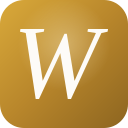
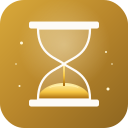
Add files via upload

diff --git a/index.html b/index.html
@@ -168,6 +168,47 @@
     #screen-home.active { gap: 12px; }
     #screen-home .footer { margin-top: 0; }
 
+    /* ---------- Daily goal (slim bar) ---------- */
+    .goal-slim {
+      background: var(--card);
+      border: 1px solid var(--border);
+      border-radius: 12px;
+      padding: 8px 12px 10px;
+      display: flex; flex-direction: column;
+      gap: 5px;
+    }
+    .goal-slim-row {
+      display: flex; justify-content: space-between; align-items: baseline;
+    }
+    .goal-slim-label {
+      font-size: 11px; color: var(--muted);
+      text-transform: uppercase; letter-spacing: .05em;
+      font-weight: 600;
+    }
+    .goal-slim-progress {
+      font-size: 13px; font-weight: 700; color: var(--ink);
+      font-variant-numeric: tabular-nums;
+      letter-spacing: -.01em;
+    }
+    .goal-slim-bar {
+      height: 4px;
+      background: var(--border);
+      border-radius: 999px;
+      overflow: hidden;
+    }
+    .goal-slim-fill {
+      height: 100%;
+      width: 0;
+      background: var(--gold-gradient);
+      border-radius: 999px;
+      transition: width .5s cubic-bezier(.4,.2,.2,1);
+    }
+    .goal-slim.complete .goal-slim-progress {
+      background: var(--gold-gradient);
+      -webkit-background-clip: text; background-clip: text;
+      color: transparent;
+    }
+
     /* ---------- HOME ---------- */
     .topbar {
       display: flex;
@@ -945,35 +986,6 @@
       100% { transform: translateX(-50%) translateY(0) scale(1); }
     }
 
-    /* ---------- Daily goal ring (home) ---------- */
-    .goal-card {
-      background: var(--card);
-      border: 1px solid var(--border);
-      border-radius: 14px;
-      padding: 12px 14px;
-      display: flex; align-items: center; gap: 14px;
-    }
-    .goal-ring { flex-shrink: 0; }
-    .goal-ring-fill { transition: stroke-dashoffset .5s cubic-bezier(.4,.2,.2,1); }
-    .goal-text { flex: 1; min-width: 0; }
-    .goal-title {
-      font-size: 11px; color: var(--muted);
-      text-transform: uppercase; letter-spacing: .05em;
-      font-weight: 600;
-    }
-    .goal-progress {
-      font-size: 18px; font-weight: 700; color: var(--ink);
-      font-variant-numeric: tabular-nums;
-      letter-spacing: -.01em;
-      margin-top: 2px;
-    }
-    .goal-hint { font-size: 12px; color: var(--muted); margin-top: 2px; }
-    .goal-card.complete .goal-hint {
-      background: var(--gold-gradient);
-      -webkit-background-clip: text; background-clip: text;
-      color: transparent;
-      font-weight: 700;
-    }
   </style>
 </head>
 <body>
@@ -983,7 +995,15 @@
     <section id="screen-home" class="screen active">
       <div class="topbar">
         <div class="brand">
-          <div class="brand-mark">W</div>
+          <div class="brand-mark" aria-label="Wortgold-Logo">
+            <svg width="28" height="28" viewBox="0 0 24 24" fill="none" aria-hidden="true">
+              <rect x="5" y="1.6" width="14" height="1.4" rx="0.4" fill="#fdfbf7"/>
+              <rect x="5" y="21" width="14" height="1.4" rx="0.4" fill="#fdfbf7"/>
+              <path d="M 6 3 L 18 3 C 18 6, 17 9.5, 12 12 C 17 14.5, 18 18, 18 21 L 6 21 C 6 18, 7 14.5, 12 12 C 7 9.5, 6 6, 6 3 Z" stroke="#fdfbf7" stroke-width="0.6" stroke-linejoin="round" fill="rgba(255,255,255,0.08)"/>
+              <path d="M 6.5 21 L 17.5 21 C 17.5 18.4, 15 17.2, 12 17.2 C 9 17.2, 6.5 18.4, 6.5 21 Z" fill="#f5c542"/>
+              <rect x="11.7" y="12.2" width="0.6" height="4.6" fill="#f5c542"/>
+            </svg>
+          </div>
           <div>
             <div class="brand-name">Wortgold</div>
             <div class="brand-sub" id="brand-sub-text">Englisch → Deutsch</div>
@@ -1034,27 +1054,12 @@
         </div>
       </div>
 
-      <div class="goal-card" id="goal-card">
-        <svg class="goal-ring" viewBox="0 0 80 80" width="56" height="56">
-          <defs>
-            <linearGradient id="goalGrad" x1="0" y1="0" x2="1" y2="1">
-              <stop offset="0%"   stop-color="#b8862b"/>
-              <stop offset="50%"  stop-color="#d9a93a"/>
-              <stop offset="100%" stop-color="#b8862b"/>
-            </linearGradient>
-          </defs>
-          <circle cx="40" cy="40" r="34" fill="none" stroke="var(--border)" stroke-width="8"/>
-          <circle id="goal-ring-fill" class="goal-ring-fill"
-                  cx="40" cy="40" r="34" fill="none"
-                  stroke="url(#goalGrad)" stroke-width="8" stroke-linecap="round"
-                  stroke-dasharray="213.6" stroke-dashoffset="213.6"
-                  transform="rotate(-90 40 40)"/>
-        </svg>
-        <div class="goal-text">
-          <div class="goal-title">Tagesziel</div>
-          <div class="goal-progress" id="goal-progress">0 / 20 heute</div>
-          <div class="goal-hint" id="goal-hint">Noch 20 Karten bis zur Tagesfanfare</div>
+      <div class="goal-slim" id="goal-card">
+        <div class="goal-slim-row">
+          <span class="goal-slim-label">Tagesziel</span>
+          <span class="goal-slim-progress" id="goal-progress">0 / 20</span>
         </div>
+        <div class="goal-slim-bar"><div class="goal-slim-fill" id="goal-fill"></div></div>
       </div>
 
       <div class="heat-card" id="heat-card">
@@ -1196,8 +1201,8 @@
 
     <div class="sheet-row">
       <div>
-        <label>Tägliches Pensum</label>
-        <div class="desc">Wie viele Karten pro Session</div>
+        <label>Karten pro Session</label>
+        <div class="desc">Wie viele Karten pro Lerneinheit</div>
       </div>
       <div class="chip-row" id="chip-limit">
         <button class="chip" data-limit="10">10</button>
@@ -2595,9 +2600,9 @@ yourself;dich selbst;pron.;A1;
     const boxes = countByBox();
     const li = levelInfo(state.stats.xp || 0);
 
-    // Show direction in the brand sub
+    // Show direction + active level in the brand sub
     const brandSub = document.getElementById("brand-sub-text");
-    if (brandSub) brandSub.textContent = directionLabel(state.settings.direction || "la-de");
+    if (brandSub) brandSub.textContent = brandSubText();
 
     document.getElementById("level-name").textContent = li.name;
     if (li.nextName) {
@@ -2642,28 +2647,20 @@ yourself;dich selbst;pron.;A1;
 
     // Heatmap der letzten 30 Tage
     renderHeatmap();
-    renderGoalRing();
+    renderGoal();
   }
 
-  // ---- Daily goal ring ----
-  function renderGoalRing() {
+  // ---- Daily goal (slim bar) ----
+  function renderGoal() {
     const goal = state.settings.dailyLimit || 20;
     const today = (state.stats && state.stats.history && state.stats.history[todayKey()]) || 0;
     const progress = Math.min(today / goal, 1);
-    const C = 213.6; // 2*pi*r where r=34
-    const fill = document.getElementById("goal-ring-fill");
+    const fill = document.getElementById("goal-fill");
     const txt  = document.getElementById("goal-progress");
-    const hint = document.getElementById("goal-hint");
     const card = document.getElementById("goal-card");
-    if (fill) fill.setAttribute("stroke-dashoffset", C * (1 - progress));
-    if (txt)  txt.textContent = today + " / " + goal + " heute";
-    if (today >= goal) {
-      if (hint) hint.textContent = "Tagesziel geknackt — Goldgriff! 🎉";
-      if (card) card.classList.add("complete");
-    } else {
-      if (hint) hint.textContent = (goal - today) + " Karten bis zur Tagesfanfare";
-      if (card) card.classList.remove("complete");
-    }
+    if (fill) fill.style.width = (progress * 100) + "%";
+    if (txt)  txt.textContent = today + " / " + goal;
+    if (card) card.classList.toggle("complete", today >= goal);
   }
 
   // ---- Session state ----
@@ -3073,7 +3070,7 @@ yourself;dich selbst;pron.;A1;
       saveState(); refreshSettingsChips();
       // Live-update brand-sub on home screen
       const brandSub = document.getElementById("brand-sub-text");
-      if (brandSub) brandSub.textContent = directionLabel(state.settings.direction);
+      if (brandSub) brandSub.textContent = brandSubText();
     });
   });
   // Niveau-Filter (Multi-Select): Klick toggelt das Niveau in/aus den aktiven
@@ -3097,6 +3094,20 @@ yourself;dich selbst;pron.;A1;
     if (d === "de-la") return "Deutsch → Englisch";
     if (d === "mixed") return "English ↔ Deutsch";
     return "Englisch → Deutsch";
+  }
+  function levelLabel(levels) {
+    const order = ["A1","A2","B1","B2","C1"];
+    const sorted = order.filter(l => (levels || []).includes(l));
+    if (sorted.length === 0) return "";
+    if (sorted.length === 1) return sorted[0];
+    const idxs = sorted.map(l => order.indexOf(l));
+    const consecutive = idxs.every((v, i) => i === 0 || v === idxs[i-1] + 1);
+    return consecutive ? sorted[0] + "–" + sorted[sorted.length - 1] : sorted.join(", ");
+  }
+  function brandSubText() {
+    const dir = directionLabel(state.settings.direction || "la-de");
+    const lv  = levelLabel(state.settings.levels);
+    return lv ? dir + " · " + lv : dir;
   }
   document.getElementById("toggle-sound").addEventListener("click", () => {
     state.settings.sound = !state.settings.sound;
